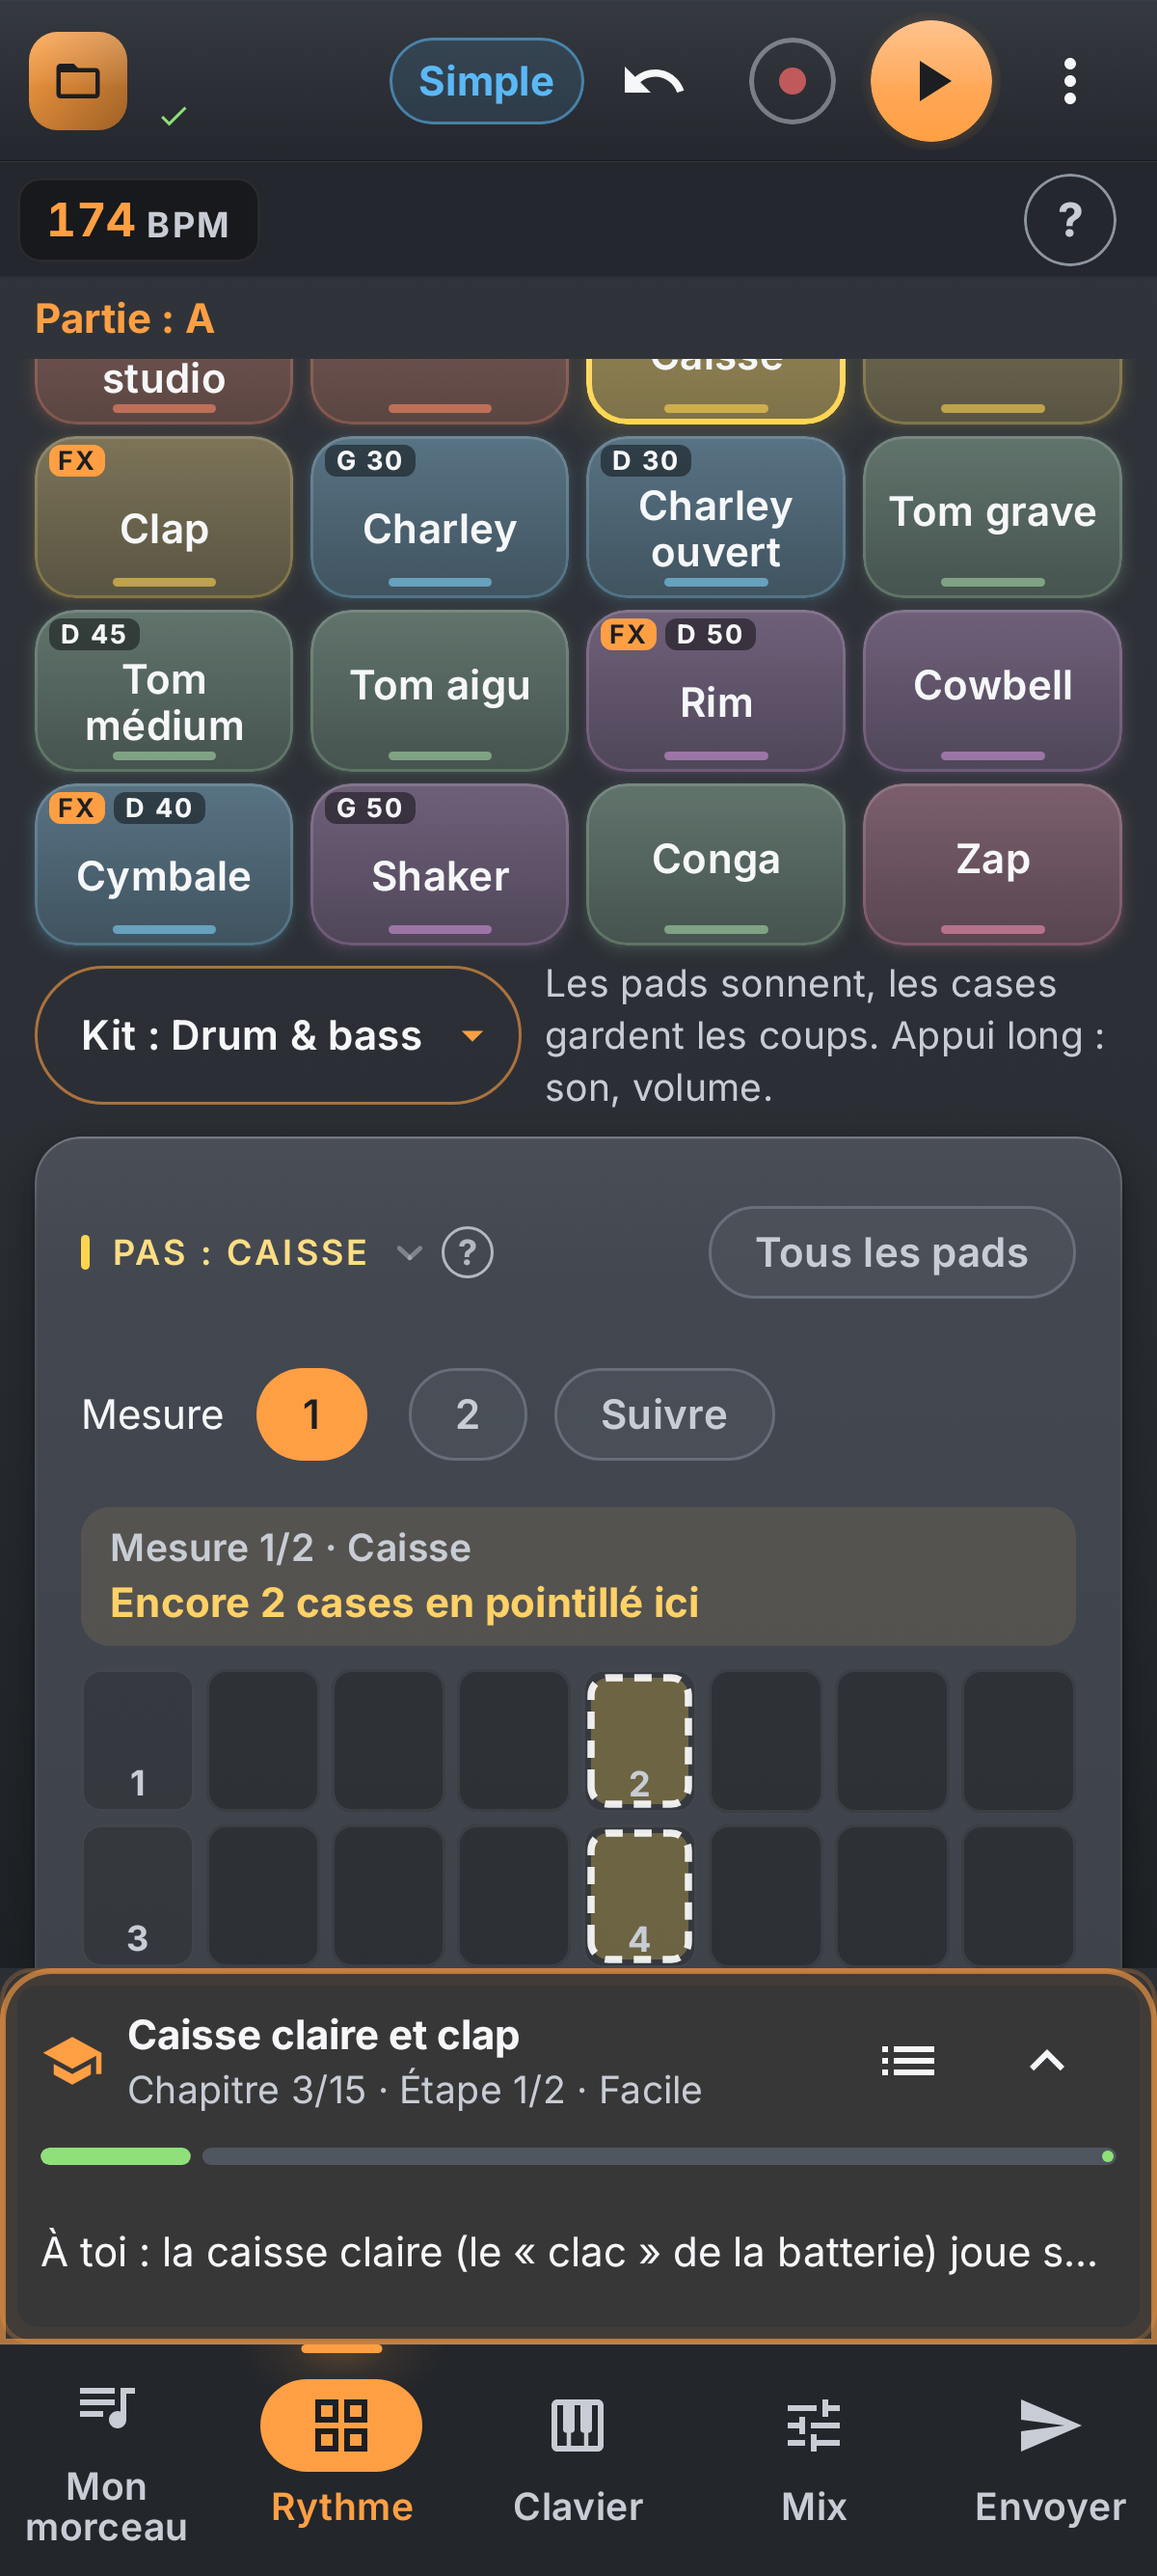
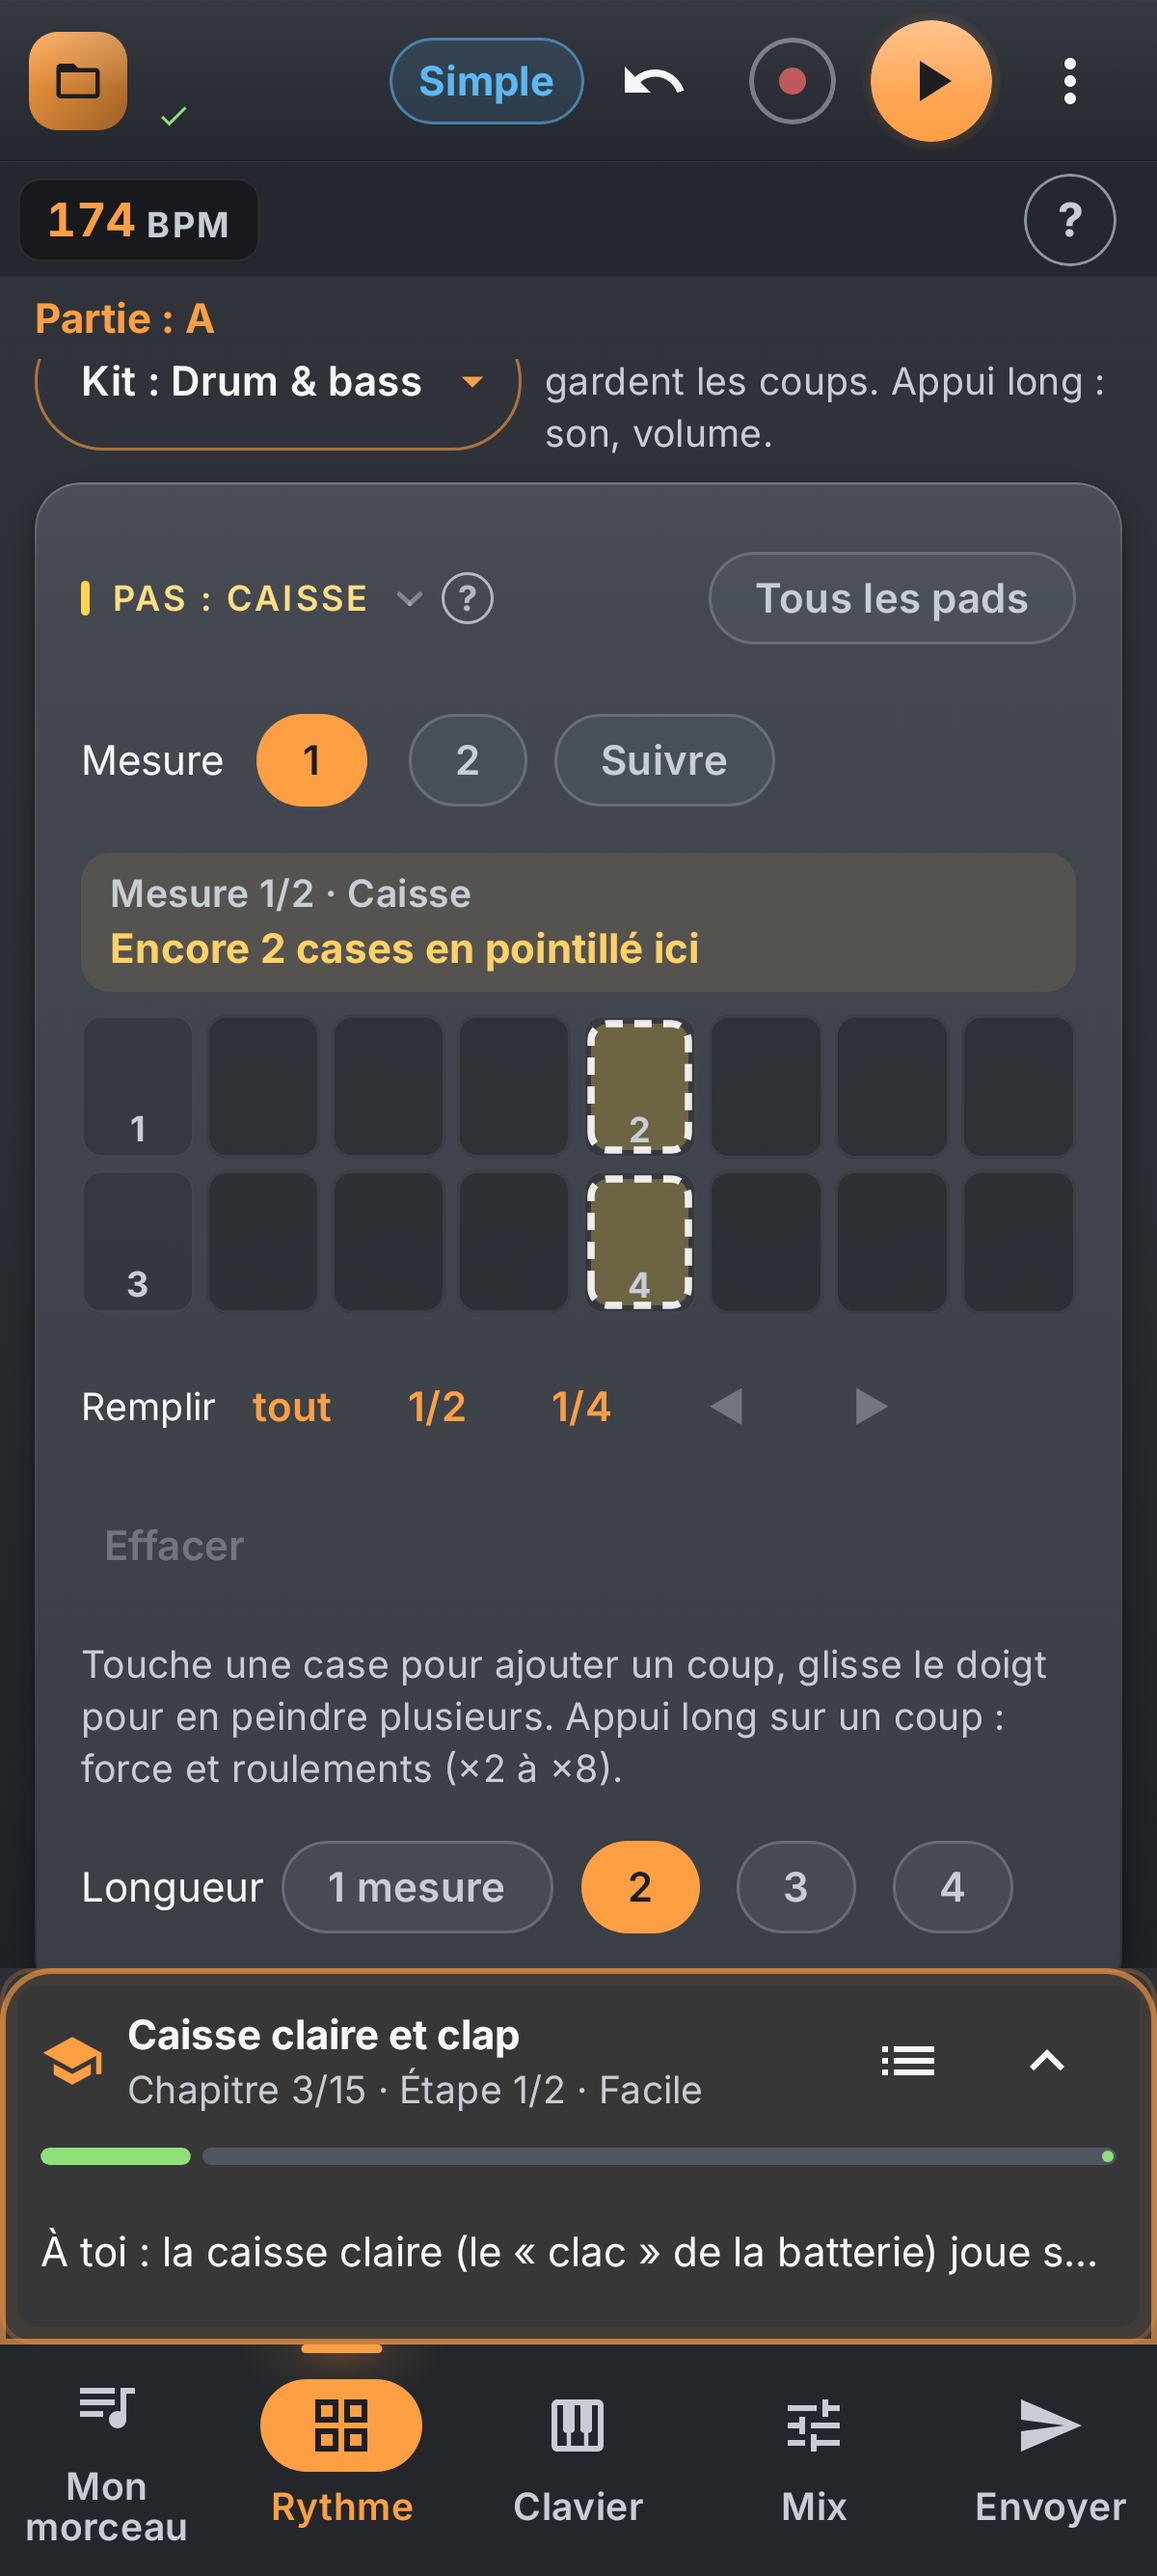
Tuto drum grid: its line and pages stay in sight with the cells
TutoScreenTest « la deuxième mesure »: the kit offer card (about 200 px)
stayed above the folded tuto panel, leaving the grid 150 px; the reveal of
the cells (with room kept for the panel) then put them at the very top and
the tuto line « Mesure 2 · 3 cases → » above them was cut off, so its button
could not be touched (bounds 0x0).
- The kit card folds with the panel (back when it opens or while a kit
  downloads).
- A spot can name spots above it to keep in sight (revealFrom): the cells
  bring their bar pages and the tuto line; when the screen is too short for
  both, a second reveal shows the target alone.

Tuto tests (74 journeys, screen, kit, finger), Guide nav/audit/journey,
SimpleMix, HelpLabels: green. tuto_app_snare.png re-recorded (line, pages
and both rows of cells now above the panel).

Claude-Session: https://claude.ai/code/session_01NqonxZBBysqqWBbnsC2VTP

diff --git a/app/src/main/java/com/pocketstudio/app/learn/Spotlight.kt b/app/src/main/java/com/pocketstudio/app/learn/Spotlight.kt
@@ -38,6 +38,7 @@ import androidx.compose.ui.node.currentValueOf
 import androidx.compose.ui.relocation.bringIntoView
 import kotlinx.coroutines.launch
 import androidx.compose.ui.layout.boundsInWindow
+import androidx.compose.ui.layout.positionInWindow
 import androidx.compose.ui.layout.onGloballyPositioned
 import androidx.compose.ui.platform.testTag
 import androidx.compose.ui.text.font.FontWeight
@@ -108,10 +109,13 @@ class SpotRegistry {
      * Audit final: control [id] (a prefix with « * ») scrolled into view when it is on the screen's page but
      * out of sight; false when no such control is there (yet).
      */
-    fun reveal(id: String): Boolean {
+    fun reveal(id: String, withHead: Boolean = true): Boolean {
         val match = if (id.endsWith("*")) spots.entries.firstOrNull { it.key.startsWith(id.dropLast(1)) }?.value else spots[id]
         val node = match?.owner as? SpotNode ?: return false
-        node.reveal(roomBelow(REVEAL_MARGIN_PX))
+        // What it names to keep in sight with it, above it (the drum grid's bar pages and tuto line over its cells).
+        val above = if (!withHead) 0f else node.revealFrom.mapNotNull { (spots[it]?.owner as? SpotNode)?.windowTop }.minOrNull()
+            ?.let { node.windowTop - it }?.takeIf { it > 0f } ?: 0f
+        node.reveal(roomBelow(REVEAL_MARGIN_PX), above)
         return true
     }
 
@@ -135,28 +139,37 @@ val LocalSpots = staticCompositionLocalOf<SpotRegistry?> { null }
  * This control is [id] for the missions, and [label] (a few words, already translated) in the
  * « ? » labels of the screen. Does nothing outside the app's registry (tests, previews).
  */
-fun Modifier.spot(id: String, label: String? = null): Modifier = this then SpotElement(id, label)
+fun Modifier.spot(id: String, label: String? = null, revealFrom: List<String> = emptyList()): Modifier = this then SpotElement(id, label, revealFrom)
 
 /** [spot] as a modifier node: it reads the registry where it is attached and leaves it when detached. */
-private data class SpotElement(val id: String, val label: String?) : androidx.compose.ui.node.ModifierNodeElement<SpotNode>() {
-    override fun create() = SpotNode(id, label)
+private data class SpotElement(val id: String, val label: String?, val revealFrom: List<String>) : androidx.compose.ui.node.ModifierNodeElement<SpotNode>() {
+    override fun create() = SpotNode(id, label, revealFrom)
     override fun update(node: SpotNode) {
         if (node.id != id) node.leave()
         node.id = id
         node.label = label
+        node.revealFrom = revealFrom
     }
 }
 
-internal class SpotNode(var id: String, var label: String?) : Modifier.Node(),
+/**
+ * [revealFrom]: the spots above this one that a reveal keeps in sight with it (from the highest of
+ * those there), when the screen has room for both; else from them down, as far as it goes.
+ */
+internal class SpotNode(var id: String, var label: String?, var revealFrom: List<String> = emptyList()) : Modifier.Node(),
     androidx.compose.ui.node.GlobalPositionAwareModifierNode,
     androidx.compose.ui.node.CompositionLocalConsumerModifierNode {
     private var registry: SpotRegistry? = null
     private var width = 0f
     private var height = 0f
 
+    /** Its top in the window, not cut by what scrolls around it (its rect is). */
+    internal var windowTop = 0f
+
     override fun onGloballyPositioned(coordinates: androidx.compose.ui.layout.LayoutCoordinates) {
         width = coordinates.size.width.toFloat()
         height = coordinates.size.height.toFloat()
+        windowTop = coordinates.positionInWindow().y
         val r = registry ?: currentValueOf(LocalSpots)?.also { registry = it } ?: return
         r.put(id, this, coordinates.boundsInWindow(), label)
     }
@@ -165,10 +178,14 @@ internal class SpotNode(var id: String, var label: String?) : Modifier.Node(),
         registry?.remove(id, this)
     }
 
-    /** Scrolled into view by whatever scrolls around it, with [below] pixels free under it (above the tuto's panel). */
-    fun reveal(below: Float = 0f) {
+    /**
+     * Scrolled into view by whatever scrolls around it, with [below] pixels free under it (above the
+     * tuto's panel) and [above] pixels over it in sight too. Too tall for the screen, its top goes
+     * first (what is above it, then itself): A1, the tuto's « Mesure 2 · 3 cases → » went off the top.
+     */
+    fun reveal(below: Float = 0f, above: Float = 0f) {
         if (isAttached) coroutineScope.launch {
-            runCatching { if (width > 0f && height > 0f) bringIntoView { Rect(0f, 0f, width, height + below) } else bringIntoView() }
+            runCatching { if (width > 0f && height > 0f) bringIntoView { Rect(0f, -above, width, height + below) } else bringIntoView() }
         }
     }
 
@@ -415,6 +432,8 @@ suspend fun revealAndCheck(registry: SpotRegistry, targets: List<String>) {
         kotlinx.coroutines.delay(REVEAL_WAIT_MS)
     }
     kotlinx.coroutines.delay(REVEAL_SETTLE_MS)
+    // A screen too short for what is over the target too (the cells' line, the tuto's panel unfolded): the target alone, it comes first.
+    if (found && registry.hidden(targets) != null && targets.any { registry.reveal(it, withHead = false) }) kotlinx.coroutines.delay(REVEAL_SETTLE_MS)
     SpotChecks.record(registry, targets, found)
 }
 

diff --git a/app/src/main/java/com/pocketstudio/app/rhythm/RhythmScreen.kt b/app/src/main/java/com/pocketstudio/app/rhythm/RhythmScreen.kt
@@ -344,6 +344,9 @@ fun RhythmScreen(
     }
 }
 
+/** What a reveal of the cells keeps in sight above them: the bar pages, the tuto's line. */
+private val STEP_CELLS_HEAD = listOf("step_pages", com.pocketstudio.app.tuto.TUTO_GRID_LINE_SPOT)
+
 /** Lying down, what the pads' column holds besides four rows: its padding, the kit's line, the gaps. */
 private val LYING_ROOM = 24.dp + 24.dp + 48.dp + 8.dp
 
@@ -602,7 +605,7 @@ private fun StepGrid(
         if (bars > 1) {
             FlowRow(
                 itemVerticalAlignment = Alignment.CenterVertically, horizontalArrangement = Arrangement.spacedBy(6.dp), verticalArrangement = Arrangement.spacedBy(6.dp),
-                modifier = Modifier.testTag("drum_pages"),
+                modifier = Modifier.spot("step_pages").testTag("drum_pages"),
             ) {
                 Text(tr("Mesure"), style = MaterialTheme.typography.bodyMedium)
                 (0 until bars).forEach { b ->
@@ -632,7 +635,8 @@ private fun StepGrid(
         val loopSteps = project.drums.steps
         Box { Column(
             verticalArrangement = Arrangement.spacedBy(4.dp),
-            modifier = Modifier.spot("step_cells", tr("Glisse pour poser")).testTag("step_cells").then(
+            // Revealed with the bar pages and the tuto's line over it (where the cells left are, a touch away).
+            modifier = Modifier.spot("step_cells", tr("Glisse pour poser"), revealFrom = STEP_CELLS_HEAD).testTag("step_cells").then(
                 if (tool != 0) Modifier
                 else Modifier.pointerInput(bar, per, loopSteps) {
                     val cols = (per / 2).coerceAtLeast(1)

diff --git a/app/src/main/java/com/pocketstudio/app/tuto/TutoPanel.kt b/app/src/main/java/com/pocketstudio/app/tuto/TutoPanel.kt
@@ -28,6 +28,7 @@ import androidx.compose.foundation.layout.height
 import androidx.compose.foundation.layout.heightIn
 import androidx.compose.foundation.layout.padding
 import androidx.compose.foundation.layout.size
+import com.pocketstudio.app.learn.spot
 import androidx.compose.foundation.layout.width
 import androidx.compose.foundation.rememberScrollState
 import androidx.compose.foundation.shape.RoundedCornerShape
@@ -141,6 +142,9 @@ object TutoHints {
     var copyOnGrid by mutableStateOf(false)
 }
 
+/** The tutorial's line over the drum grid, as a spot (a reveal of the cells keeps it in sight). */
+const val TUTO_GRID_LINE_SPOT = "tuto_grid_line"
+
 /** How long a screen waits before turning by itself for the tutorial (the last touch seen first). */
 const val TUTO_TURN_MS = 450L
 
@@ -176,7 +180,7 @@ fun TutoGridLine(bar: Int, bars: Int, pad: String, here: Int, elsewhere: Pair<In
     androidx.compose.runtime.LaunchedEffect(said) { if (said != null) { kotlinx.coroutines.delay(TUTO_BANNER_MS); if (TutoHints.banner == said) TutoHints.banner = null } }
     Row(
         Modifier.fillMaxWidth().heightIn(min = 48.dp).clip(RoundedCornerShape(10.dp)).background(Neon.Amber.copy(alpha = 0.10f)).padding(start = 10.dp, end = 4.dp)
-            .testTag("tuto_grid_line"),
+            .spot(TUTO_GRID_LINE_SPOT).testTag("tuto_grid_line"),
         verticalAlignment = Alignment.CenterVertically,
     ) {
         Column(Modifier.weight(1f)) {

diff --git a/app/src/main/java/com/pocketstudio/app/ui/AppRoot.kt b/app/src/main/java/com/pocketstudio/app/ui/AppRoot.kt
@@ -2202,8 +2202,10 @@ fun AppRoot() {
                     // « Mettre ces sons » / « Plus tard » when it is but the course is under way (never put in silence).
                     val kitTarget = com.pocketstudio.model.tuto.TutoTarget.of(tutoNow.progress.style)
                     val kitMissing = (tutoKitOffer as? com.pocketstudio.model.tuto.TutoKit.Offer.Download)?.missing.orEmpty()
-                    if (kitTarget != null && (kitMissing.isNotEmpty() || tutoKitOffer == com.pocketstudio.model.tuto.TutoKit.Offer.Ask)) {
-                        val loading = kitMissing.mapNotNull { tutoPacks.downloading[it.id] }
+                    val kitLoading = kitMissing.mapNotNull { tutoPacks.downloading[it.id] }
+                    // Folded with the panel while the user works on the screen (the grid had 160 dp left under it at 780 dp).
+                    if (kitTarget != null && (tutoNow.open || kitLoading.isNotEmpty()) && (kitMissing.isNotEmpty() || tutoKitOffer == com.pocketstudio.model.tuto.TutoKit.Offer.Ask)) {
+                        val loading = kitLoading
                         com.pocketstudio.app.tuto.TutoKitCard(
                             style = com.pocketstudio.app.tuto.tutoText(kitTarget.style.name),
                             size = tr("%d Mo", ((kitMissing.sumOf { it.sizeBytes } + 500_000) / 1_000_000).coerceAtLeast(1)),

diff --git a/docs/DECISIONS.md b/docs/DECISIONS.md
@@ -1012,3 +1012,4 @@
 - 2026-11-02 · Live : plus d'onde du temps à travers les points vides (règle de Benjamin du 2026-11-01). Retour arrière : `GridClock.wave`.
 - 2026-11-03 · Tuto techno Pro : les potards « Coupure » / « Résonance » d'une piste Plaits « Analogique + filtre » sont son Timbre et ses Harmoniques (vrai filtre du module, source Plaits 1.2) : l'étape les pointille et les compte ; la « Basse analogique » du tuto (Plaits sans filtre) prend ce modèle quand son tuto demande de tourner son filtre (avant : potard introuvable, l'étape ne pouvait pas se faire). Retour arrière : `PlaitsPatch.knobFor` → null et `withFilterAsked` supprimé.
 - 2026-11-03 · Tuto, volumes : « Je le fais » pointe la tranche de la 303 (elle manquait : acid techno et acidcore visaient le Clap, absent du Mix simple), puis la première tranche pas encore baissée ; un son de batterie visé ouvre la batterie du Mix simple. Retour arrière : `channelOf` d'avant, `TutoHints.strip`.
+- 2026-11-03 · Tuto, « la deuxième mesure » (TutoScreenTest) : la carte du kit (200 px) restait au-dessus du panneau replié et la grille n'avait plus que 150 px ; révélée, la case montait tout en haut et la ligne « Mesure 2 · 3 cases → » sortait par le haut. La carte du kit se replie avec le panneau (revient quand il s'ouvre ou pendant un téléchargement) ; les cases sont révélées avec leurs pages et la ligne du tuto au-dessus (`revealFrom`), et si l'écran est trop court, les cases seules. Retour arrière : `revealFrom` vide, condition `tutoNow.open` retirée.
